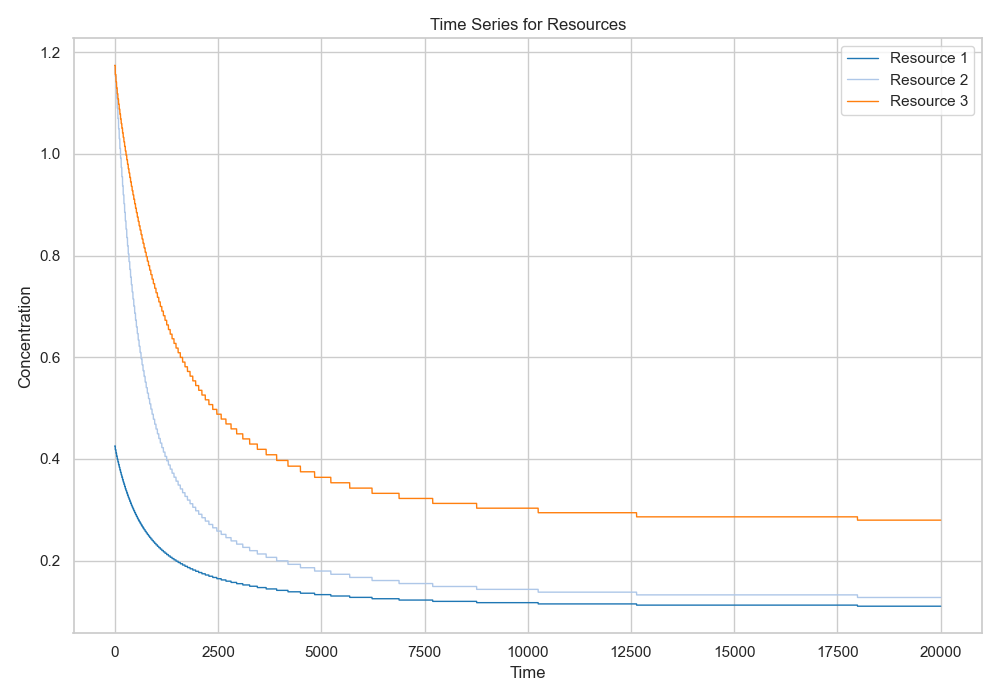
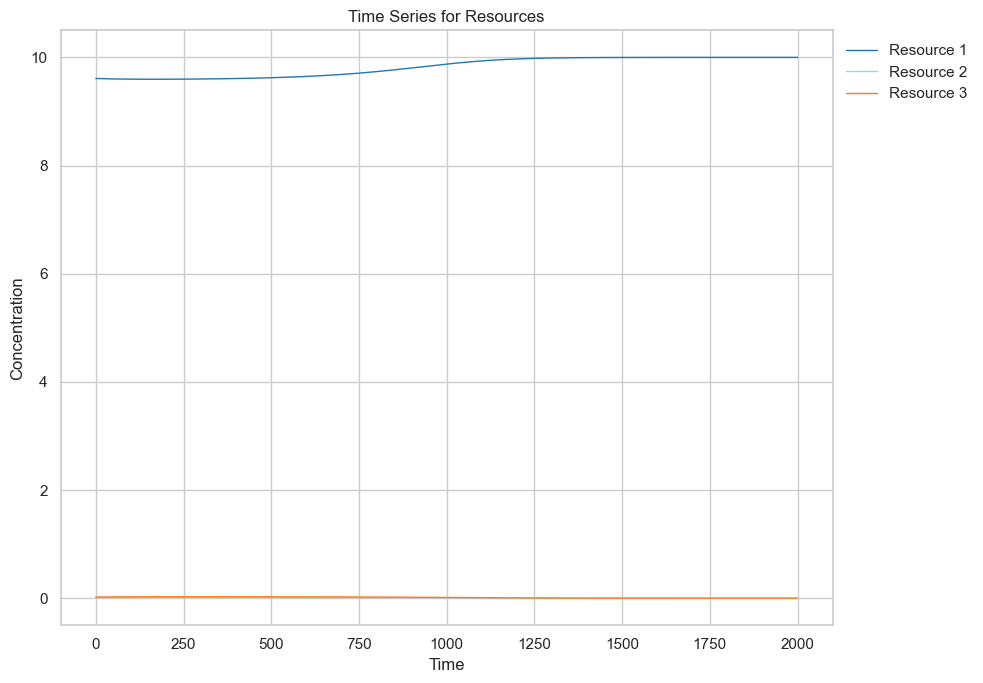
well_mixed corrections

diff --git a/models/well_mixed/well_mixed.py b/models/well_mixed/well_mixed.py
@@ -3,7 +3,6 @@ well_mixed.py: file to store definition of the well-mixed model
 
 CONTAINS: - dR_dt: function storing the dynamics of resources
           - dR_dt_maslov: function with reinsertion in environment
-          - dR_dt_partial: resource dynamics with partial modulation
           - dR_dt_linear: function storing the dynamics of resources, when linear
           - dR_dt_nomod: function with R dynamics with uptake not regulated by auxotrophies
           - dN_dt: function storing the dynamics of species
@@ -47,7 +46,7 @@ def dR_dt(R,N,param,mat):
     out = np.dot((up_eff*R/(1+R)).T,N.T)
 
     # species specific metabolism and renormalization
-    D_species = np.tile(mat['met'].T,(n_s,1,1))*(np.tile(mat['spec_met'],(1,1,n_r)).reshape(n_s,n_r,n_r)) 
+    D_species = np.tile(mat['met'],(n_s,1,1))*np.transpose((np.tile(mat['spec_met'],(1,1,n_r)).reshape(n_s,n_r,n_r)),axes=(0,2,1))
     D_s_norma = np.zeros((n_s,n_r,n_r))
     for i in range(n_s):
         sums = np.sum(D_species[i], axis=0)
@@ -86,7 +85,7 @@ def dR_dt_maslov(R,N,param,mat):
     prod = np.zeros((n_r))
     
     # species specific metabolism and renormalization
-    D_species = np.tile(mat['met'],(n_s,1,1))*(np.tile(mat['spec_met'],(1,1,n_r)).reshape(n_s,n_r,n_r)) 
+    D_species = np.tile(mat['met'],(n_s,1,1))*np.transpose((np.tile(mat['spec_met'],(1,1,n_r)).reshape(n_s,n_r,n_r)),axes=(0,2,1))
     D_s_norma = np.zeros((n_s,n_r,n_r))
     for i in range(n_s):
         sums = np.sum(D_species[i], axis=0)
@@ -96,15 +95,14 @@ def dR_dt_maslov(R,N,param,mat):
     for i in range(n_s):
         # calculate essential nutrients modulation for each species (context-dependent uptake)
         if (np.sum(mat['ess'][i]!=0)):
-            print('i')
             mu  = np.min(R[mat['ess'][i]==1]/(R[mat['ess'][i]==1]+1))
             lim = np.where(mat['ess'][i] == 1)[np.argmin(R[mat['ess'][i]==1]/(R[mat['ess'][i]==1]+1))]
             l_eff=param['l'].copy()*mu + (1-mu)     # modulate uptakes 
+            l_eff[lim]=param['l'].copy()[lim]
             l_eff[lim]=param['l'][lim].copy()     # restore uptake of the limiting one to max
             prod += np.dot(N[i]*mat['uptake'][i]*R/(1+R)*param['w']*l_eff,(D_s_norma[i].T))*1/param['w']
         else:
             prod += np.dot(N[i]*mat['uptake'][i]*R/(1+R)*param['w']*param['l'],(D_s_norma[i].T))*1/param['w']
-
 
     # resource loss due to uptake (not modulated by essentials)
     out = np.dot((mat['uptake']*R/(1+R)).T,N.T)
@@ -147,11 +145,12 @@ def dR_dt_partial(R,N,param,mat):
             up_eff[i]=mat['uptake'][i]*(param['alpha']+(1-param['alpha'])*mu)      # modulate uptakes only partially
             up_eff[i,lim]=mat['uptake'][i,lim]                                     # restore uptake of the limiting one to max
 
+
     # resource loss due to uptake (not modulated by essentials)
     out = np.dot((up_eff*R/(1+R)).T,N.T)
 
     # species specific metabolism and renormalization
-    D_species = np.tile(mat['met'],(n_s,1,1))*(np.tile(mat['spec_met'],(1,1,n_r)).reshape(n_s,n_r,n_r)) 
+    D_species = np.tile(mat['met'],(n_s,1,1))*np.transpose((np.tile(mat['spec_met'],(1,1,n_r)).reshape(n_s,n_r,n_r)),axes=(0,2,1))
     D_s_norma = np.zeros((n_s,n_r,n_r))
     for i in range(n_s):
         sums = np.sum(D_species[i], axis=0)
@@ -198,7 +197,7 @@ def dR_dt_nomod(R,N,param,mat):
     out[np.abs(out)<1e-14]=0
 
     # species specific metabolism and renormalization
-    D_species = np.tile(mat['met'],(n_s,1,1))*(np.tile(mat['spec_met'],(1,1,n_r)).reshape(n_s,n_r,n_r)) 
+    D_species = np.tile(mat['met'],(n_s,1,1))*np.transpose((np.tile(mat['spec_met'],(1,1,n_r)).reshape(n_s,n_r,n_r)),axes=(0,2,1))
     D_s_norma = np.zeros((n_s,n_r,n_r))
     for i in range(n_s):
         sums = np.sum(D_species[i], axis=0)
@@ -340,40 +339,6 @@ def dN_dt_linear(t,N,R,param,mat):
 
     return dNdt
 
-#--------------------------------------------------------------------------------------------------
-# define species dynamics
-
-def dN_dt_partial(t,N,R,param,mat):
-
-    """
-    R: vector, n_r, current resource concentration
-    N: vecotr, n_s, current species abundance
-    param, mat: dictionaries, parameters and matrice
-
-    RETURNS N*(growth_vector-1/param['tau_s']), vector, n_s, the new state of species, n_s
-
-    """
-    
-    n_s = N.shape[0]
-
-    # check essential nutrients presence (at each site)
-    up_eff = mat['uptake'].copy()
-    for i in range(n_s):
-        # calculate essential nutrients modulation for each species (context-dependent uptake)
-        if (np.sum(mat['ess'][i]!=0)):
-            mu  = np.min(R[mat['ess'][i]==1]/(R[mat['ess'][i]==1]+1))
-            lim = np.where(mat['ess'][i] == 1)[np.argmin(R[mat['ess'][i]==1]/(R[mat['ess'][i]==1]+1))]
-            up_eff[i]=mat['uptake'][i]*(mu*(1-param['alpha'])+param['alpha'])      # modulate uptakes 
-            up_eff[i,lim]=mat['uptake'][i,lim] # restore uptake of the limiting one to max
-
-    # effect of resources
-    growth_vector = param['g']*(np.sum(param['w']*(1-param['l'])*up_eff*mat['sign']*R/(1+R),axis=1)) 
-
-    # sum (remember to take dilution away if no species chemostat)
-    dNdt = N*(growth_vector-param['m'])
-    dNdt[np.abs(dNdt)<1e-10]=0
-
-    return dNdt
 
 #--------------------------------------------------------------------------------------------------
 # define species dynamics when linear 
@@ -452,7 +417,7 @@ def run_wellmixed(N0,param,mat,dR,dN,maxiter):
         #if (np.abs(drdt)<1e-14).all():
             #R_eq = R[-1]
         #else:
-        R_eq = optimize.least_squares(dR, guess, args=(N_prev,param,mat)).x
+        R_eq = optimize.least_squares(dR, guess, args=(N_prev,param,mat),bounds = (0,np.inf)).x
         R_eq[np.abs(R_eq)<1e-14]=0
 
         # integrate N one step

diff --git a/models/well_mixed/example_wm_aux.py b/models/well_mixed/example_wm_aux.py
@@ -37,7 +37,7 @@ m = np.zeros((n_s))+0.1
 
 # no reinsertion of produced chemicals
 ext = np.zeros((n_r))
-ext[0] = 1.
+ext[0] = 10.
 tau = np.zeros((n_r))+10
 
 g = np.array([0.5,1.])
@@ -55,8 +55,9 @@ param = {
     'm'  : m,                                          # maintainance requ.    [energy/time]
     'ext': ext,                                        # external replenishment  
     'tau' : tau,                                       # chemicals dilution                             
-    'tau_s': 100,                                      # species dilution
-    'guess_wm': guess                                  # initial resources guess
+    #'tau_s': 0.1,                                      # species dilution
+    'guess_wm': guess,                                 # initial resources guess
+    'alpha': 0.2                                       # partial modulation parameter                      
 }
 
 # define matrices dict
@@ -68,7 +69,7 @@ mat = {
     'sign'    : sign_mat
 }
 
-N_fin,R_fin=run_wellmixed(N0,param,mat,dR_dt_maslov,dN_dt_maslov,20000)
+N_fin,R_fin=run_wellmixed(N0,param,mat,dR_dt_partial,dN_dt,2000)
 
 sums = np.sum(N_fin, axis=1)[-1]
 final_fraction = np.where(sums == 0, 0, N_fin[-1] / (sums+1e-15))
